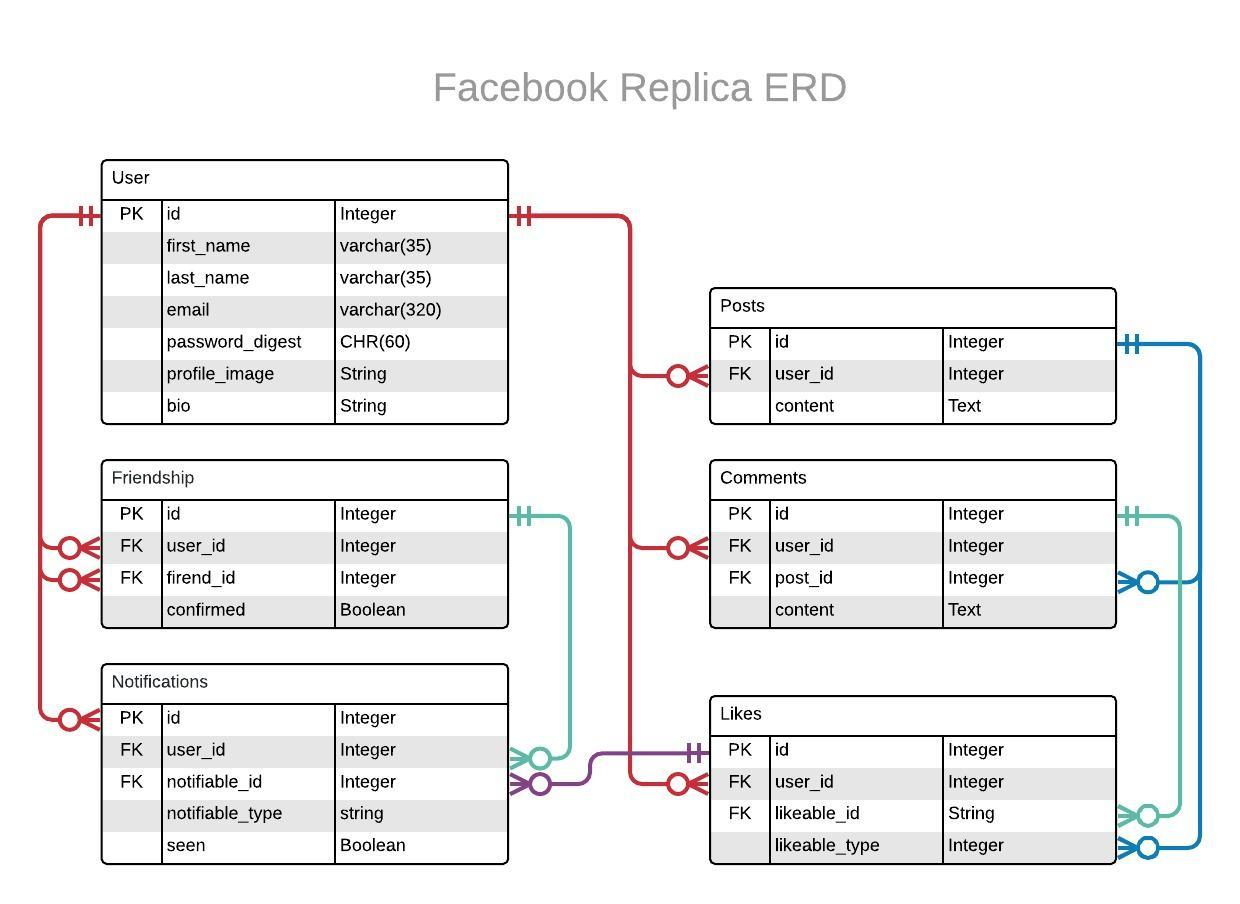
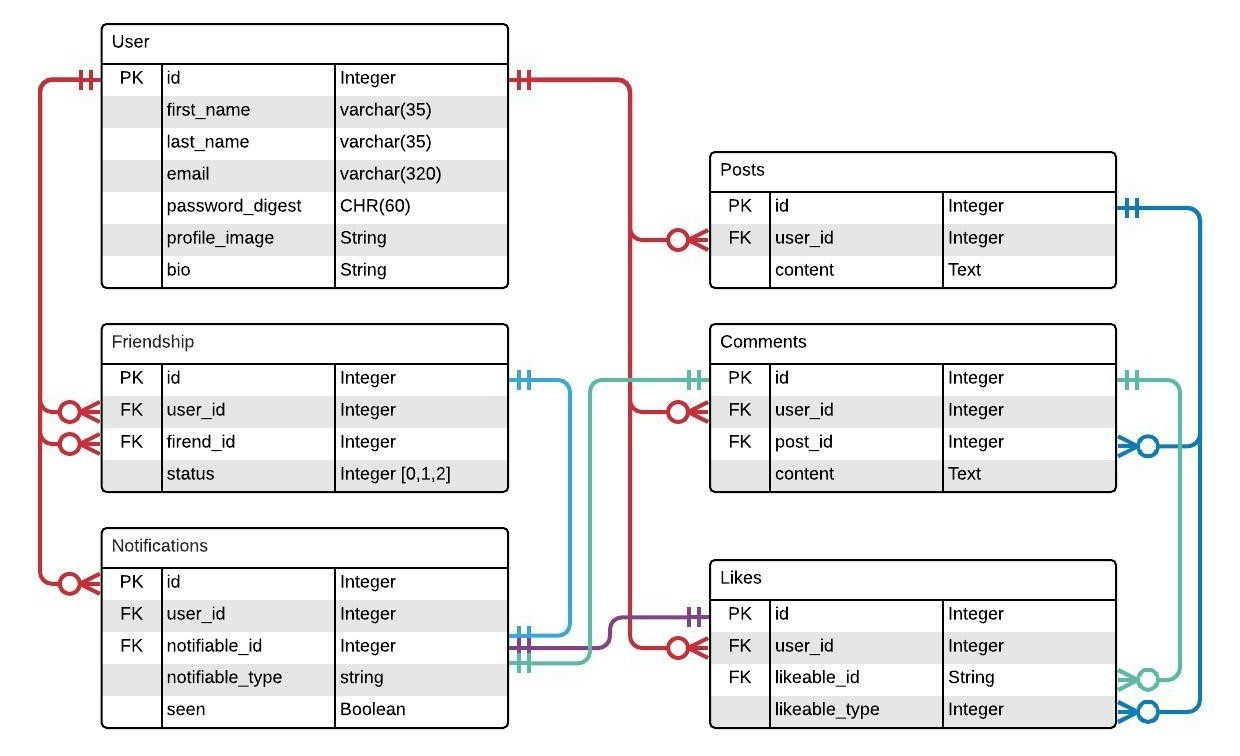
update docs

Changed region(s): [[0.0306, 0.0304, 0.9806, 0.9735]]

diff --git a/README.md b/README.md
@@ -1,30 +1,49 @@
 # Facebook Replica
 
+This is an excercise building a clone of some of Facebook's features using Ruby on Rails.
   
 ## Demo
-Herouku link // later
+
+Herouku link // later.
   
 ## Features
-  - **Users**
-    - Sign-up / login / logout
-    - Show profile page
-    - Create / update / delete posts
-    - Has many posts
 
-  - **Posts**
-    - Create / update / delete
-    - Show in chronological update order
-    - Belongs to a User
+- **Users**
+  - Sign-up / login / logout.
+  - Show profile page.
+  - Create / update / delete posts.
+  - Has many posts.
 
-  - **Comments**
-    - Create / update / delete
+- **Posts**
+  - Create / update / delete.
+  - Show in chronological update order.
+  - Belongs to a User.
 
-  - **Likes**
-    - Like / unlike comments and/or posts
+- **Comments**
+  - Create / update / delete.
+
+- **Likes**
+  - Like / unlike comments and/or posts.
+
+- **Friendships**
+  - Send / Accept a friend request.
+  - Remove existing friends.
+  - Feed with posts from yourself and friends only.
+
+- **Notificaions**
+  - Recieve a notification for :
+    - Comments on your posts.
+    - Likes for your comments / posts.
+    - Friendship requests and acceptance.
+
+## Entity Relationship Diagram (ERD)
+
+![alt text](docs/facebook_replica_ERD.jpeg)
 
 ## Local Installation
 
 ### Requirements
+
 - Ruby '2.6.0'
 - Bundler
 - Rails 5.2.3
@@ -35,30 +54,25 @@ Herouku link // later
 Clone the repo and then install the needed gems:
 
 ```console
- bundle install --without production
+ $ bundle install --without production
 ```
 
 Migrate the database:
 
 ```console
- rails db:migrate
+ $ rails db:migrate
 ```
 
 Populate the database:
 
 ```console
- rails db:seed
+ $ rails db:seed
 ```
 
 You'll be ready to run the app in a local server:
 
 ```console
- rails server
+ $ rails server
 ```
-Visit http://localhost:3000/
 
-## Authors 
-
-**[Quynh Yen Vo T.](https://github.com/themonster2015)**
-
-**[Nazeh](https://github.com/Nazeh)**
+Visit <http://localhost:3000/>
